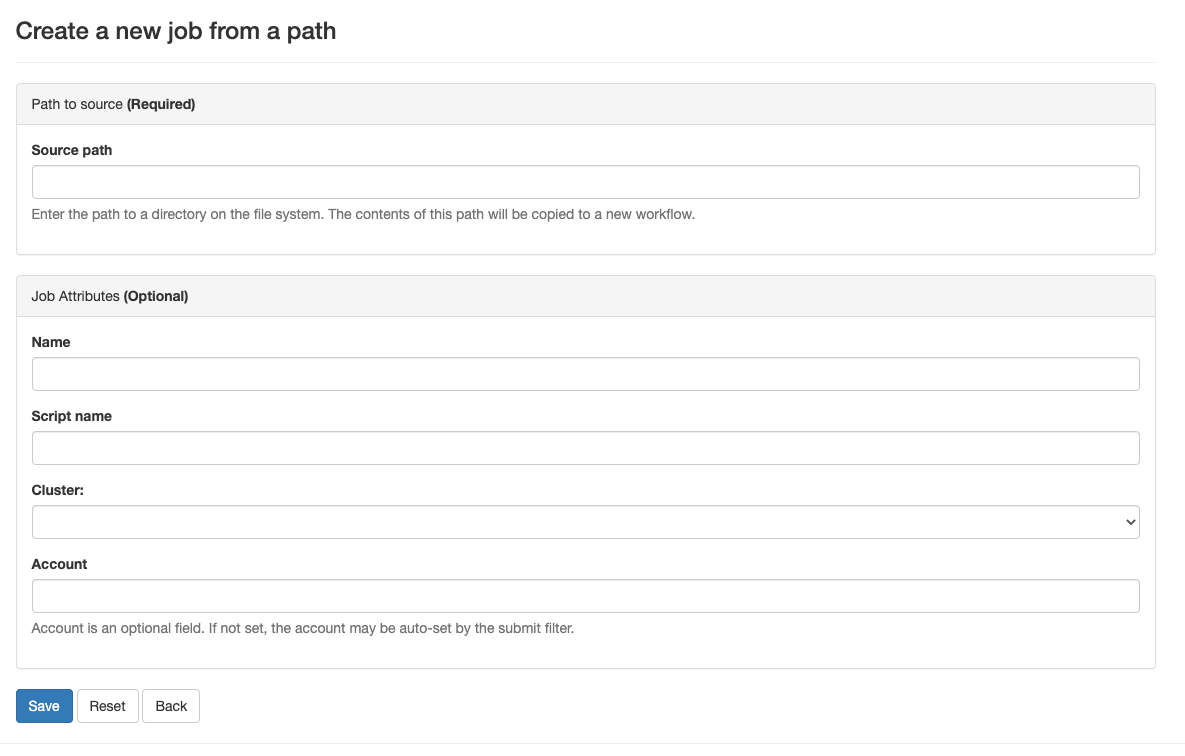
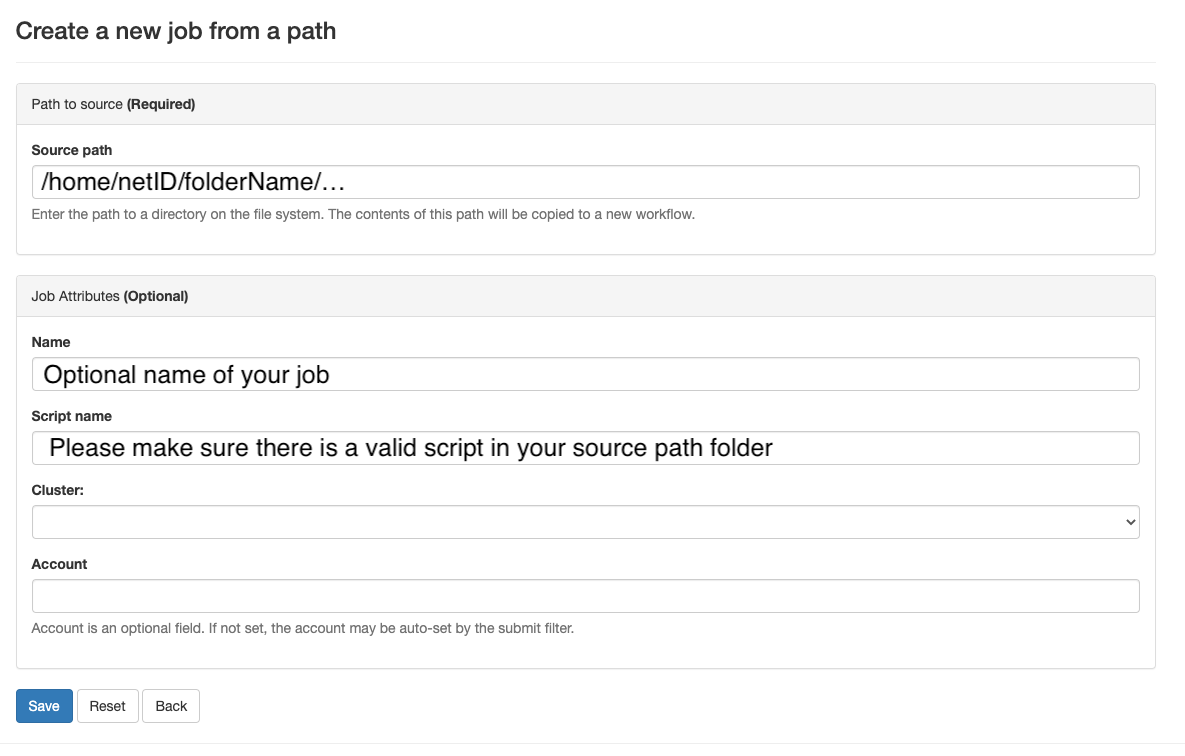
add some texts of job creation

Changed region(s): [[0.0312, 0.578, 0.6557, 0.6085], [0.0312, 0.213, 0.281, 0.2738], [0.0312, 0.4868, 0.281, 0.5172]]

diff --git a/README.md b/README.md
@@ -9,7 +9,7 @@
     - [Browser Requirements](#browser-requirements)
   - [File Management  <a name = "file_management"></a>](#file-management--)
   - [Job Management <a name = "job_management"></a>](#job-management-)
-    - [Creating a new Quest job](#creating-a-new-quest-job)
+    - [Steps for creating a new Quest job](#steps-for-creating-a-new-quest-job)
     - [Creating templates for job submissions](#creating-templates-for-job-submissions)
     - [Monitoring existing jobs](#monitoring-existing-jobs)
   - [Accessing Command-line Shell <a name = "accessing_shell"></a>](#accessing-command-line-shell-)
@@ -104,41 +104,47 @@ Go to your destination folder, and then
 ## Job Management <a name = "job_management"></a>
 
 OnDemand provides graphical user interface so that you can create new Quest jobs as well as manage and view existing jobs all in one browser. To navigate to job management page, please select "Jobs" in dashboard's main menu, and choose either "Active Jobs" to view existing jobs or "Job Composer" to create a new job.
-
-### Creating a new Quest job
-
-**Navigation**
-![job_composer_navigation](images/jobs/job_composer_navigation.png)
-The following window will appear in a new tab of your browser.
+![job_composer_navigation](images/jobs/job_composer_navigation.png)\
+The following window will appear in a new tab of your browser.\
 ![job_composer_look](images/jobs/job_composer_look.png)
 
-TODO: 👇
-**Steps to create a job**
+
+### Steps for creating a new Quest job
 
 1. **Create a new job** by copying from an existing job template directory or a previously run job directory.
    - Create: Begin by creating a new job from an existing template, from any arbitrary path on the file system, or by copying a job you have already created through the Job Composer.
   ![new_job_options](images/jobs/new_job_options.png)
 
-  - **Default template**
-    - for more info, please see the "Creating templates for job submissions" session below.
+     - Option 1: from default template
+       - the script location of default job is "/home/netID/ondemand/data/sys/myjobs/projects/default/#". A new folder will be automatically created with script name of "main_job.sh"
+         - to edit the submission script "main_job.sh", please either click the "/main_job.sh" under "folder contents", or click "Open Editor". A new editor window will be opened in the new tab of your browser.
+       ![edit_main_job_sh](images/jobs/edit_main_job_sh.png)
+       - for more info to create a customized template, please see the "Creating templates for job submissions" session below.
   
-  - **Specified Path**
-  ![new_job_from_path](images/jobs/new_job_from_path.png)
+    - Option 2: from specified Path
+     ![new_job_from_path](images/jobs/new_job_from_path.png)
 
-  - **Selected job**
-  ![new_job_copy](images/jobs/new_job_copy.png)
+    - Option 3: from selected job
+      - This will create an unsubmitted copy of your current selecting job so you can easily make multiple submissions.
+     <!-- ![new_job_copy](images/jobs/new_job_copy.png) -->
   
 
 2. **Edit the files in the job** via the file explorer.
    - Edit: Select a job and click here to open the path in the file explorer so you can edit the job's files.
    - Select an existing job and click here to specify the jobs's server and submit script.
    - Select an existing job and click here to open a new terminal to the job path.
-  
-3. **Submit the job** 
+
+3. **Optional** 
+
+    - to change the job name, specify job script, account, job array, please first select the job, then click the "Job Options" button.
+    - [Examples of Different Types of Jobs on Quest](https://kb.northwestern.edu/page.php?id=70719)
+    ![Examples of Different Types of Jobs on Quest](images/jobs/job_options.png)
+   
+4. **Submit the job** 
    - Submit: Select an existing job and click here to submit the job to the batch queue.
    - [Error message page](https://kb.northwestern.edu/page.php?id=91392)
 
-4. **For existing jobs**
+5. **For existing jobs**
    - Select a running or queued job and click here to stop the job.
    - Select an existing job and click here to remove the job from the list.
 
@@ -186,3 +192,11 @@ Without openning a terminal window, you can open  Quest S shell via OnDemand, wh
 https://openondemand.org/
 https://www.osc.edu/resources/online_portals/ondemand
 https://kb.northwestern.edu/page.php?id=70716
+
+TODO: 
+1. account is optional field? multiple allocation? the need to specify the account?
+2. Option 3: from selected job screenshot
+3. edit jobs/ submission/ existing
+4. job monitoring options
+5. job templates
+
